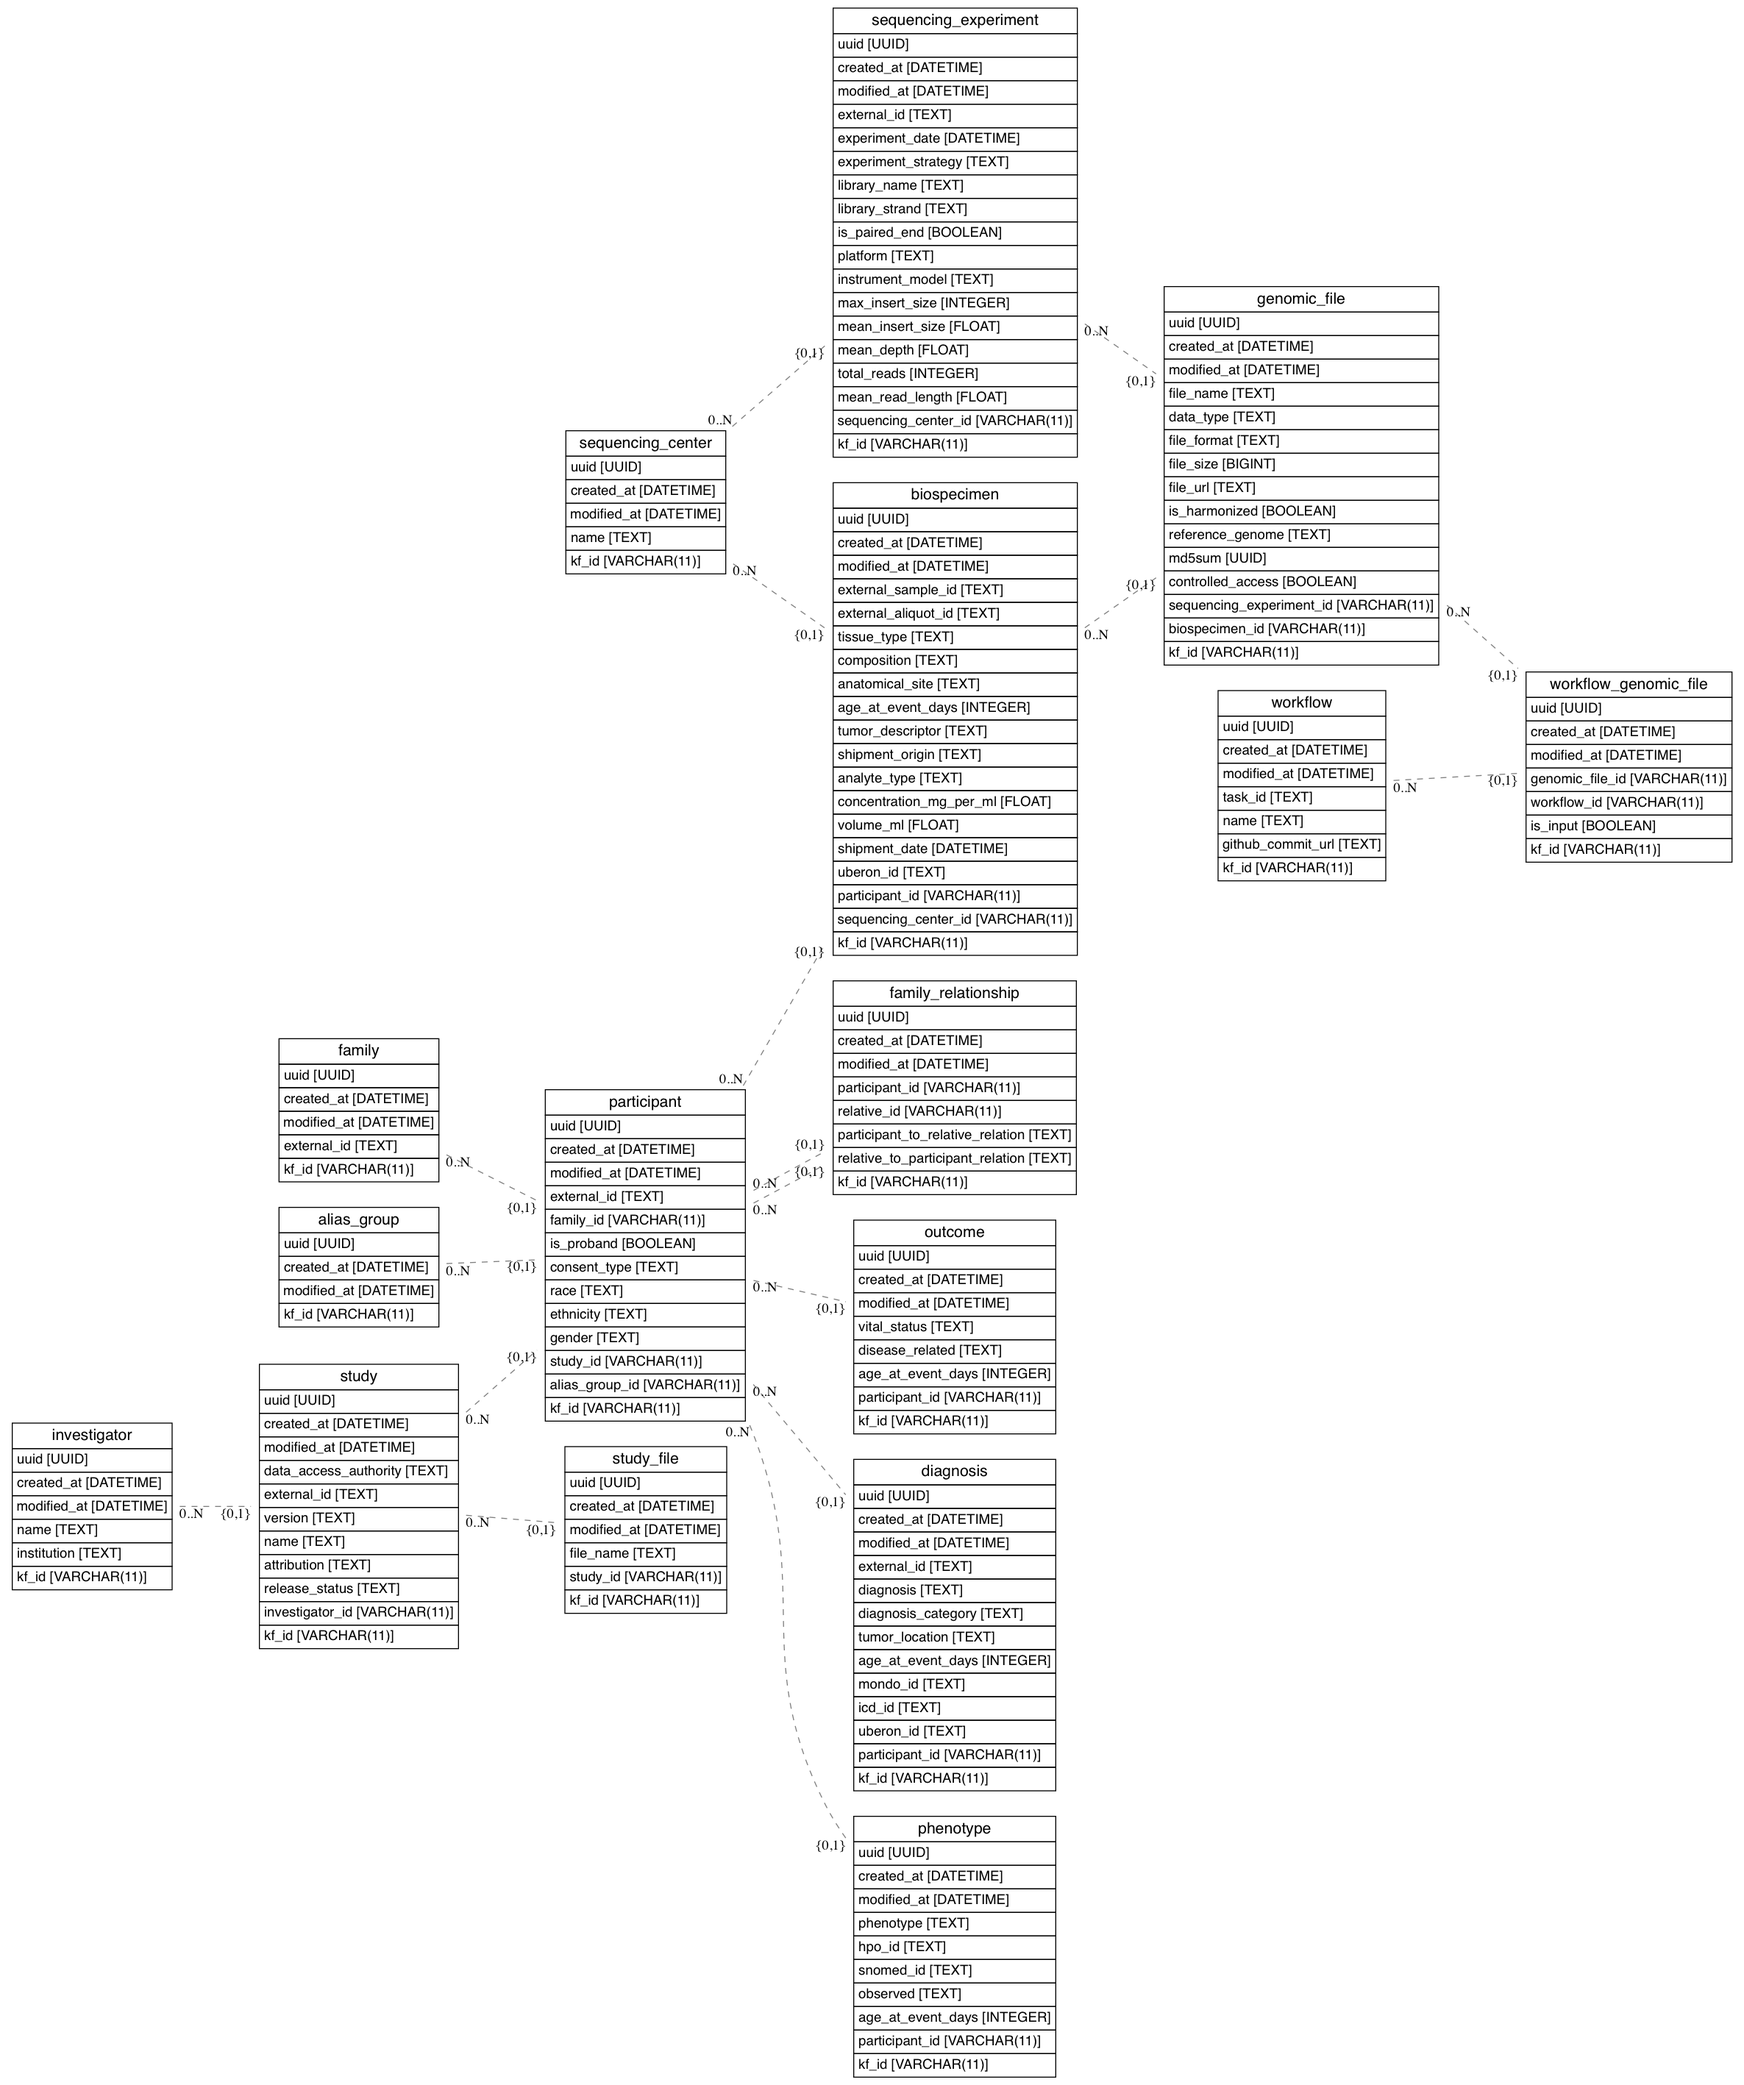
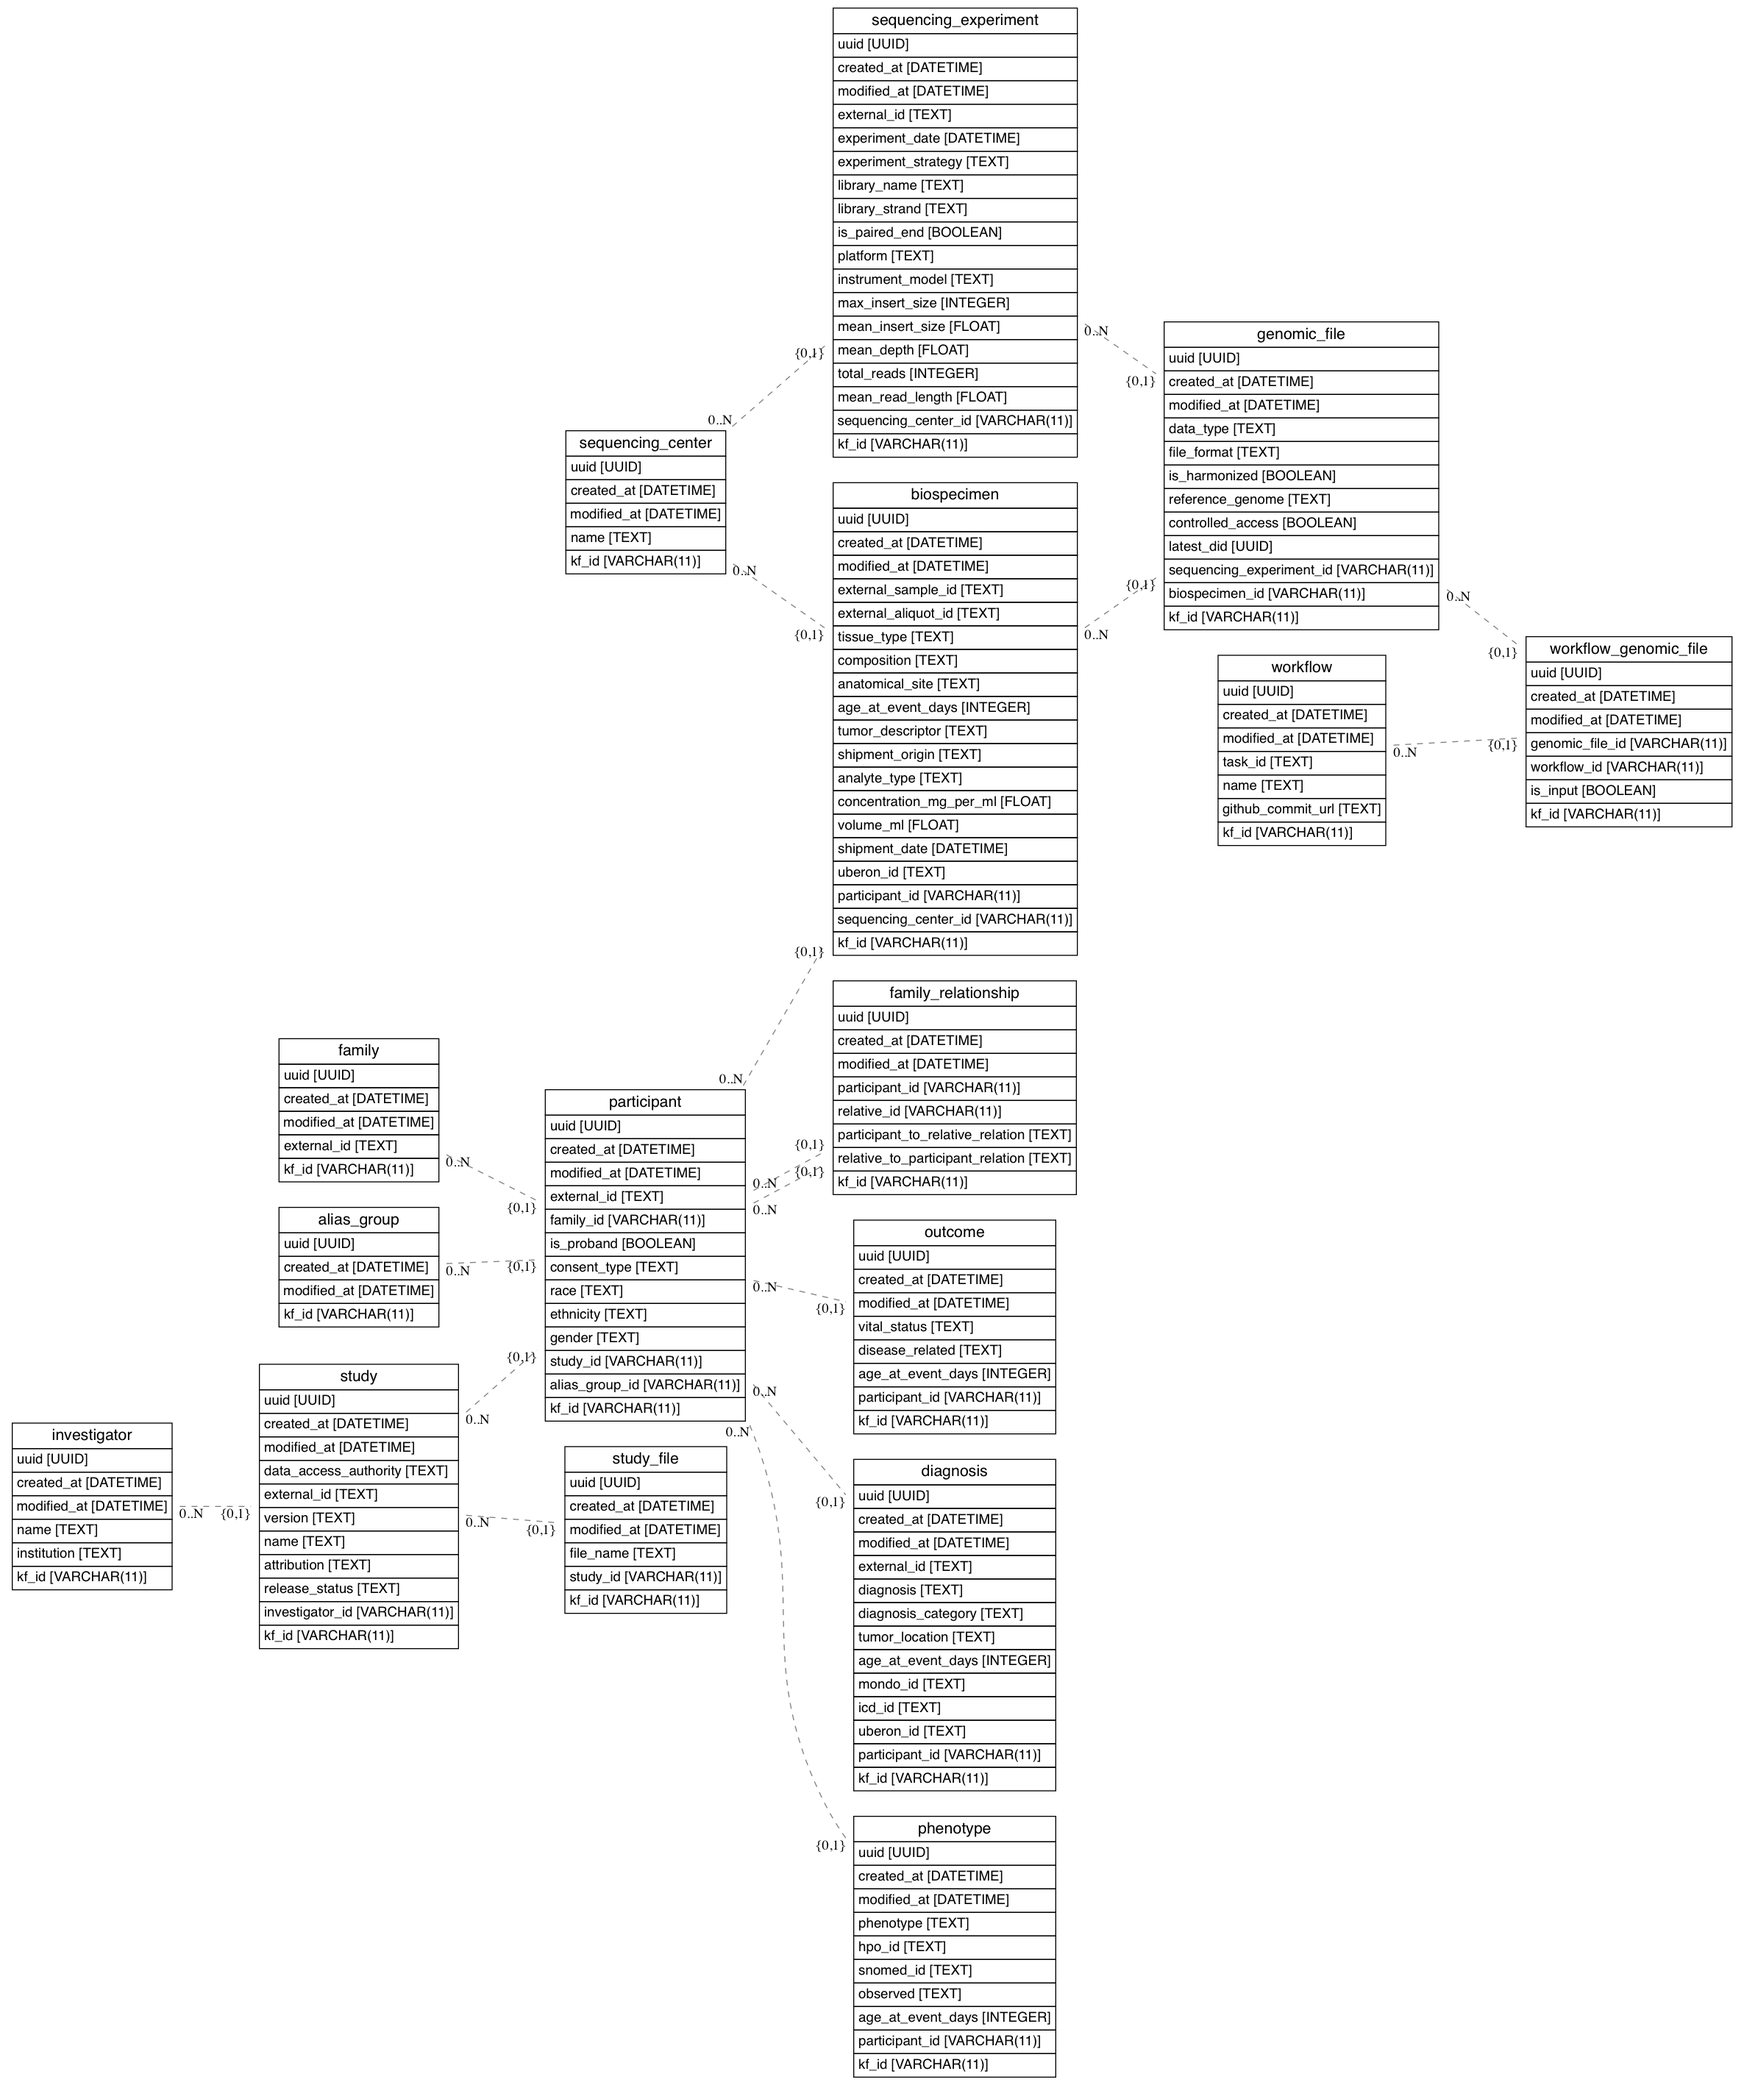
:card_file_box: Add sequencing_center model with unique constraint for name

Changed region(s): [[0.6554, 0.1242, 0.8427, 0.4346], [0.8739, 0.3104, 0.9987, 0.4035]]

diff --git a/migrations/versions/4a7f7cb8ac00_.py b/migrations/versions/4a7f7cb8ac00_.py
@@ -2,9 +2,9 @@
 Add sequencing_center entity to model
 Remove center from sequencing_experiment and shipment_destination from biospecimen
 
-Revision ID: bd4d1ffd50df
-Revises: e3ee14b87b2e
-Create Date: 2018-04-17 14:24:32.030735
+Revision ID: 4a7f7cb8ac00
+Revises: 243980a97e4c
+Create Date: 2018-04-19 10:42:46.065593
 
 """
 from alembic import op
@@ -12,8 +12,8 @@ import sqlalchemy as sa
 from sqlalchemy.dialects import postgresql
 
 # revision identifiers, used by Alembic.
-revision = 'bd4d1ffd50df'
-down_revision = 'e3ee14b87b2e'
+revision = '4a7f7cb8ac00'
+down_revision = '243980a97e4c'
 branch_labels = None
 depends_on = None
 
@@ -27,6 +27,7 @@ def upgrade():
     sa.Column('name', sa.Text(), nullable=False),
     sa.Column('kf_id', dataservice.api.common.model.KfId(length=11), nullable=False),
     sa.PrimaryKeyConstraint('kf_id'),
+    sa.UniqueConstraint('name'),
     sa.UniqueConstraint('uuid')
     )
     op.add_column('biospecimen', sa.Column('sequencing_center_id', dataservice.api.common.model.KfId(length=11), nullable=False))

diff --git a/migrations/versions/243980a97e4c_.py b/migrations/versions/243980a97e4c_.py
@@ -12,7 +12,7 @@ from sqlalchemy.dialects import postgresql
 
 # revision identifiers, used by Alembic.
 revision = '243980a97e4c'
-down_revision = '04c620f9f768'
+down_revision = 'e3ee14b87b2e'
 branch_labels = None
 depends_on = None
 
